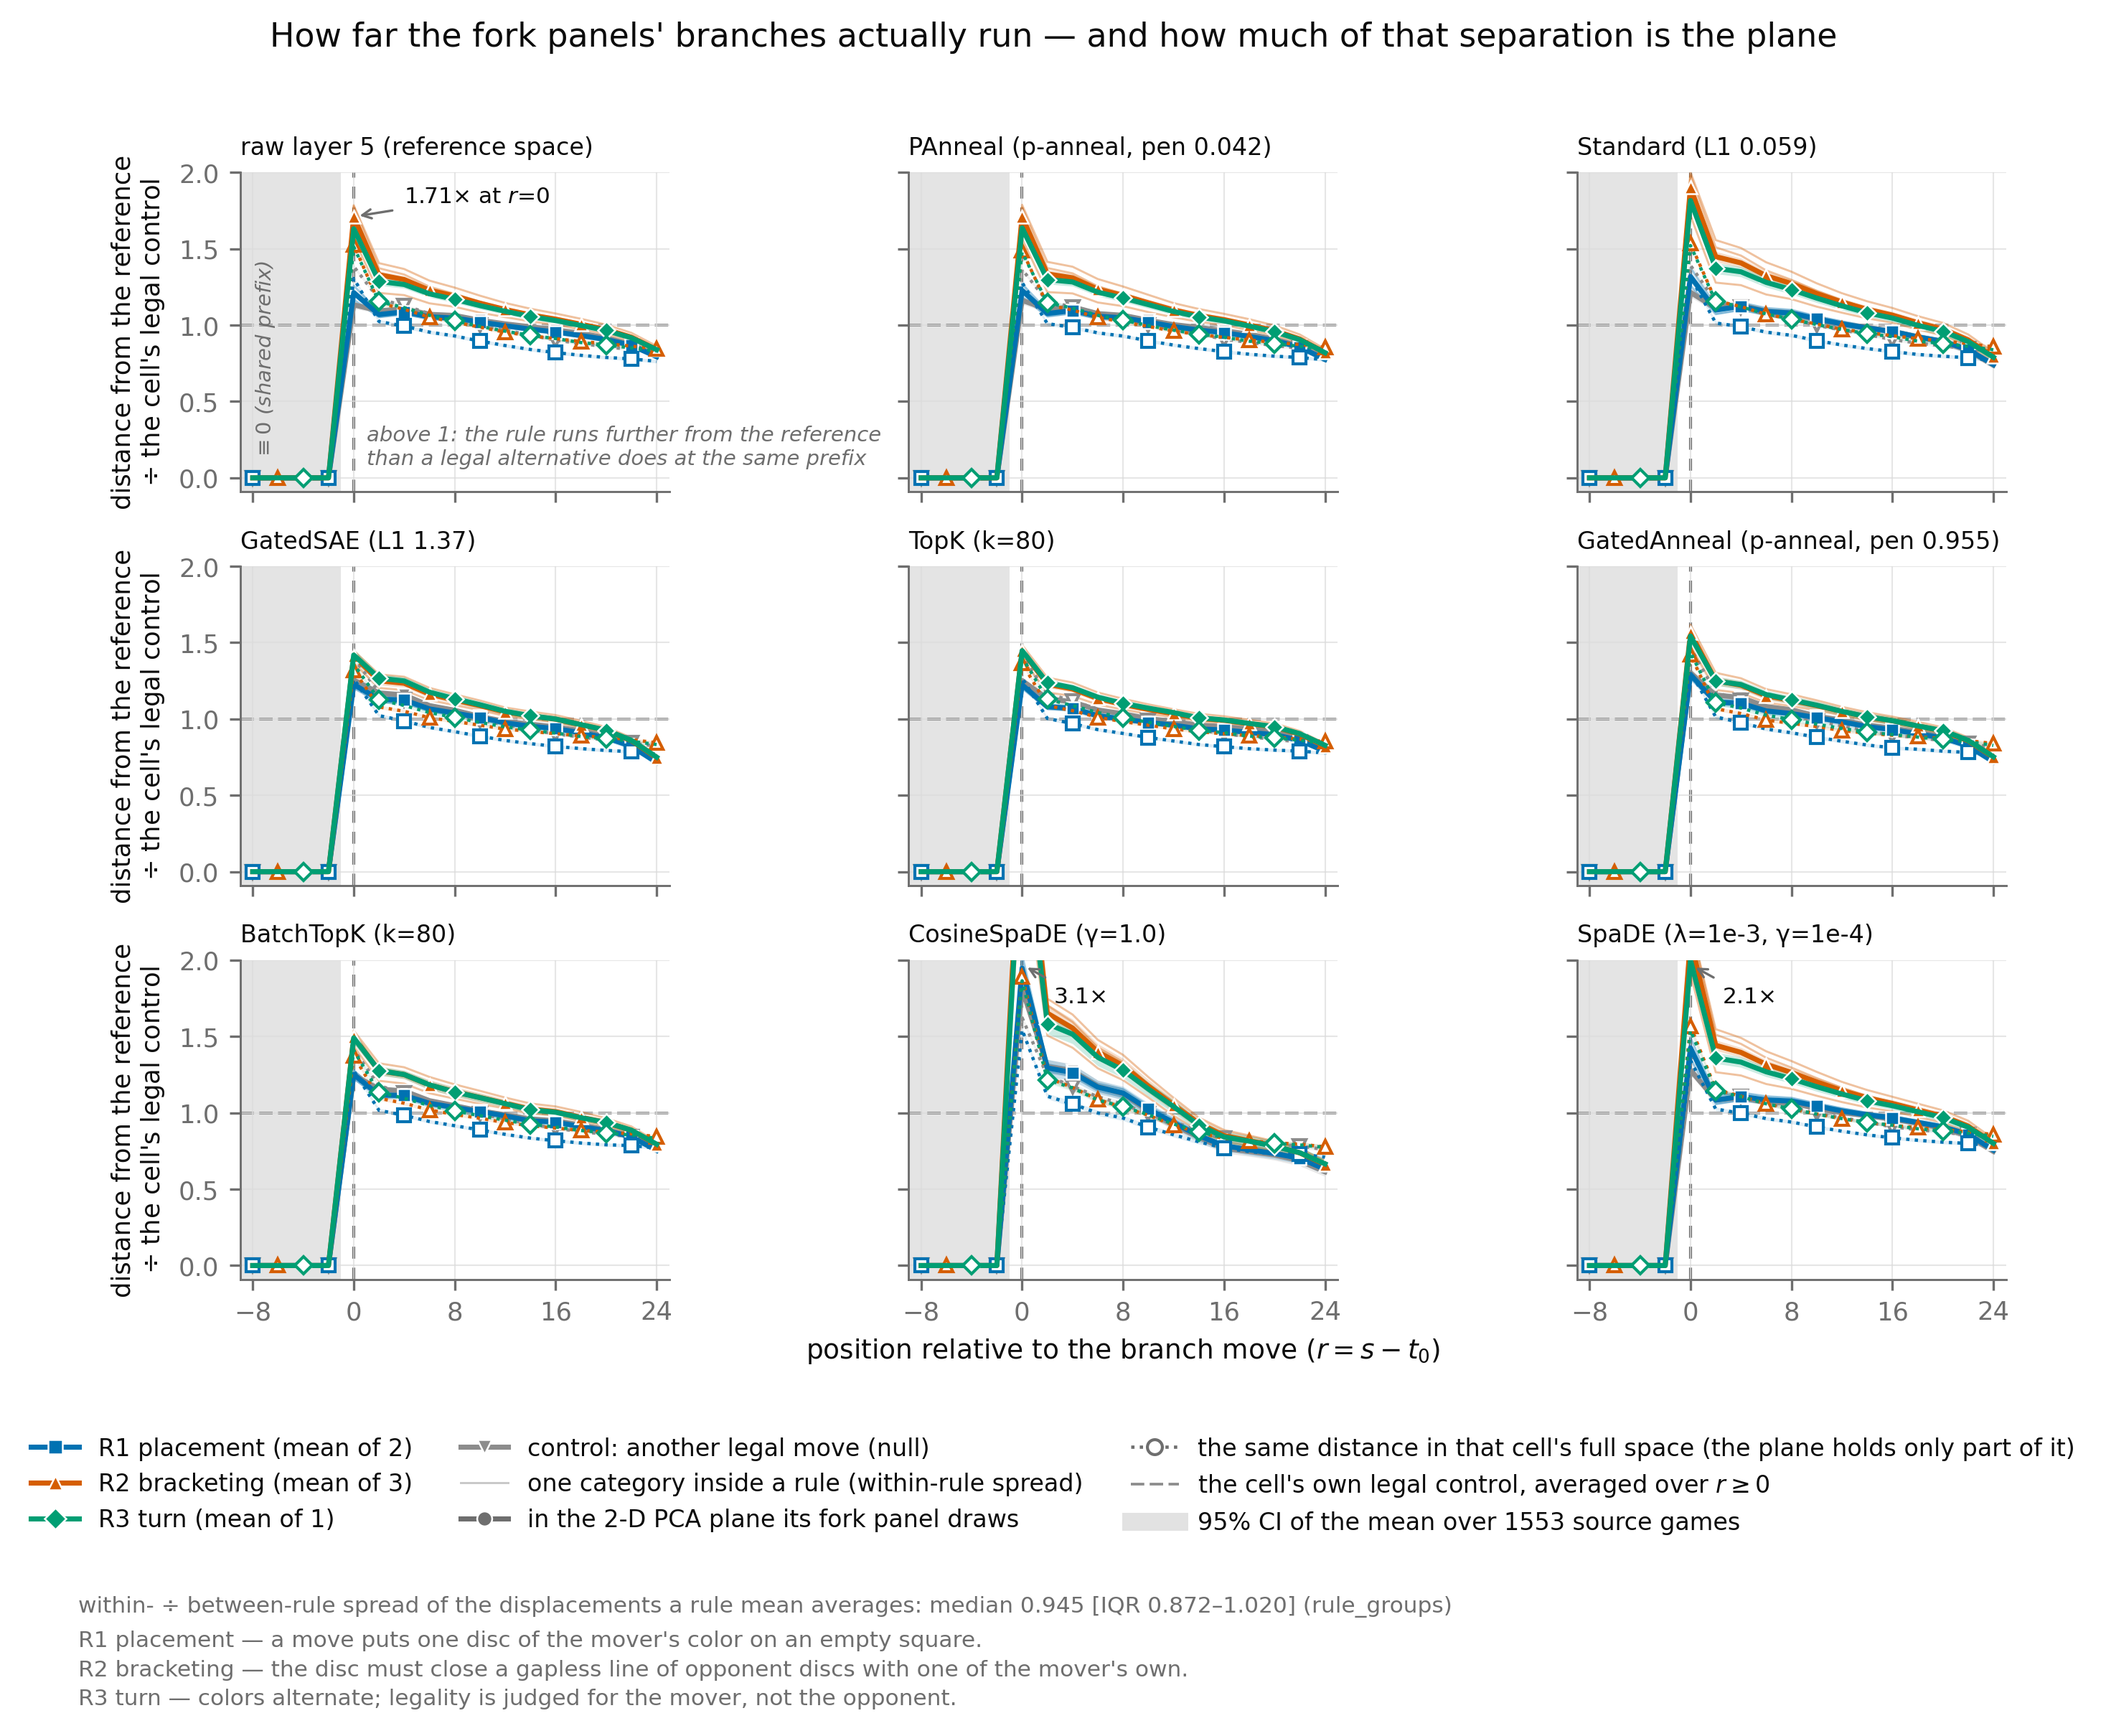
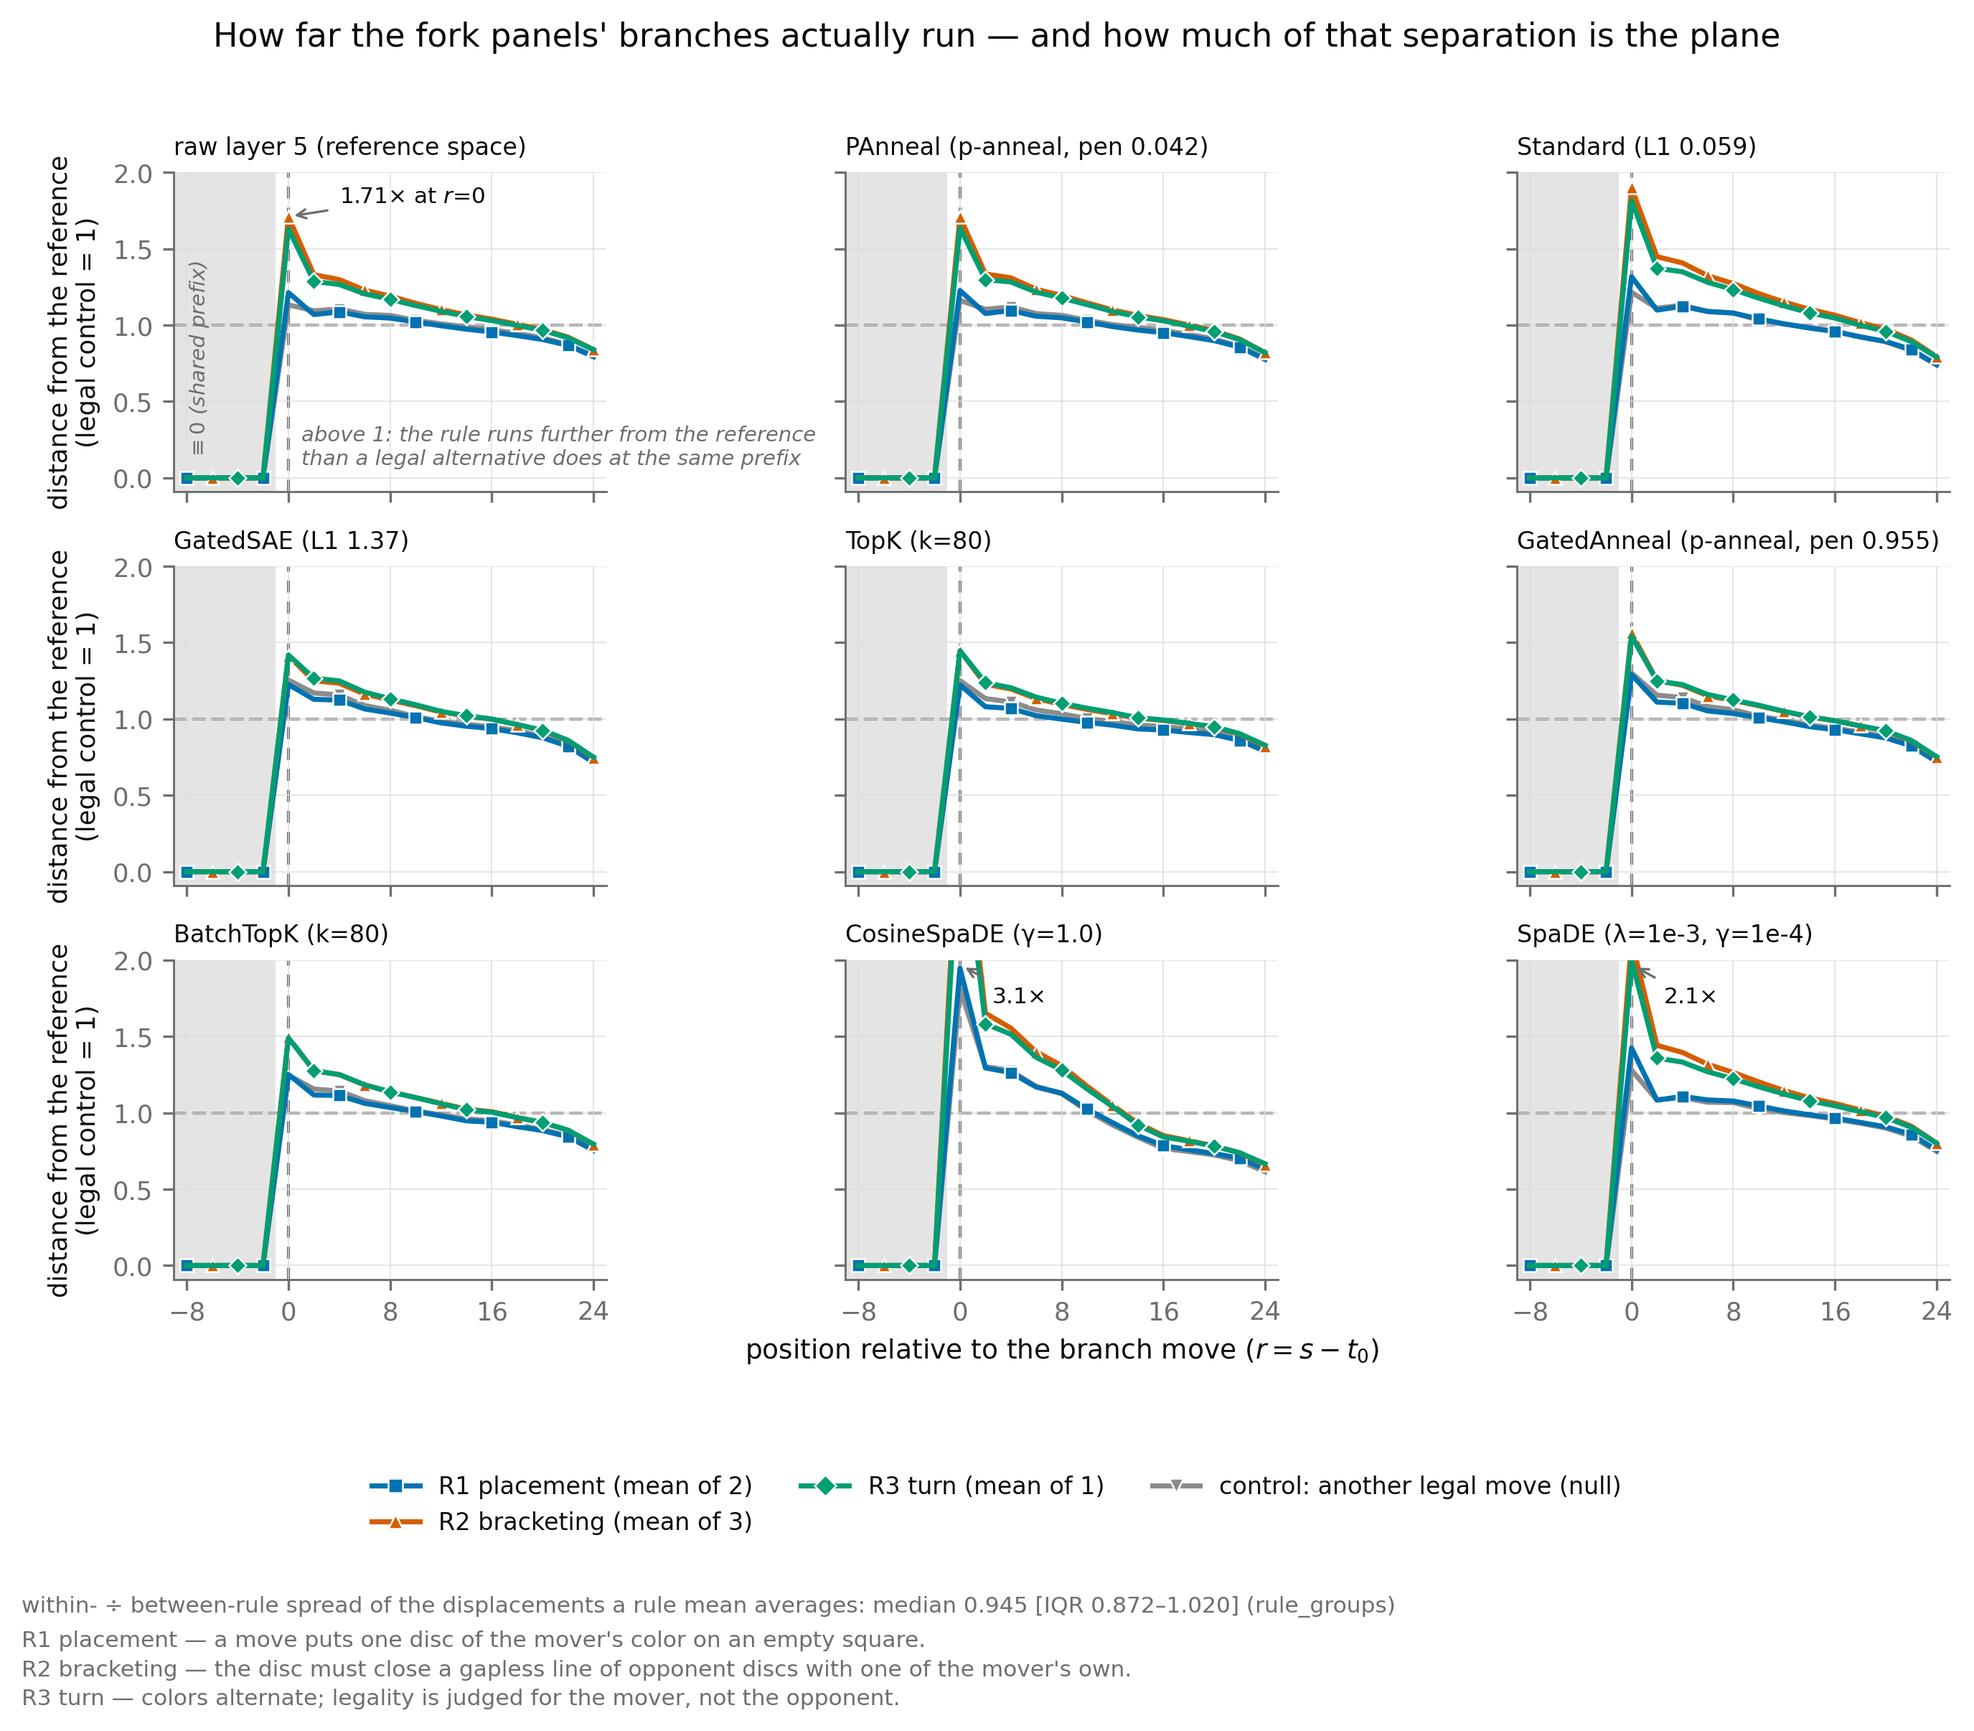
Cut the divergence panels to the one curve they are about
The legend explained four things at once — which space the distance was measured
in, what the faint members were, the divisor, the band — for a figure whose
question is one curve. The full-space series went with its key rather than being
left as an undecodable dotted line; it stays in the CSV, where the plane-vs-space
gap the README quotes is still recoverable.

diff --git a/analysis/violation_divergence/divergence_by_space/make_figures.py b/analysis/violation_divergence/divergence_by_space/make_figures.py
@@ -41,7 +41,7 @@ import pandas as pd
 
 from spade.common.paths import results_dir
 from spade.common.study import variant_dir
-from spade.figures.branch_style import MEMBER, MEMBER_LABEL, branch_style
+from spade.figures.branch_style import branch_style
 from spade.figures.paper_style import (
     GRID, INK, MUTED, NULL, apply_style, rule_key, save_figure)
 from spade.othello.taxonomy import CATEGORIES, LEGAL, RULE_MEMBERS
@@ -54,12 +54,11 @@ CONTROL = "control_legal"
 # Which space the distance was measured in rides on line style and marker fill,
 # so hue stays free for the rule and a panel carries four classes, not eight
 # series. The plane is the figure's quantity and takes the solid line.
-PLANE = {"ls": "-", "lw": 1.7, "ms": 4.2, "fill": True, "alpha": 0.20,
-         "label": "in the 2-D PCA plane its fork panel draws"}
-FULL = {"ls": (0, (1, 1.6)), "lw": 1.1, "ms": 4.2, "fill": False, "alpha": 0.12,
-        "label": "the same distance in that cell's full space "
-                 "(the plane holds only part of it)"}
-MEASURES = {"plane": PLANE, "full": FULL}
+PLANE = {"ls": "-", "lw": 1.7, "ms": 4.2, "fill": True}
+MEASURES = {"plane": PLANE}
+# Drawn: the plane only. Tabulated: both, because the gap between them is how
+# much of a branch's run the fork panel actually shows, and the README quotes it.
+TABLE_MEASURES = ("plane", "full")
 # Measured on the full displacement field of this same population by
 # `spade.violation_divergence.rule_groups`; a mean over a group owes the reader
 # the spread it hides (FIGURE_GUIDELINES 1.7).
@@ -109,7 +108,7 @@ def mean_ci(x: np.ndarray) -> tuple[np.ndarray, np.ndarray]:
 def table(z, variant: str) -> pd.DataFrame:
     """Every drawn point, so the README can quote a number without reading a curve."""
     rows = []
-    for key in MEASURES:
+    for key in TABLE_MEASURES:
         r = ratios(z, key)
         for si, space in enumerate(z["space"]):
             for ci, name in enumerate(series_rows(z)):
@@ -130,10 +129,8 @@ def style_of(name: str) -> dict:
     return st | {"label": f"{st['label']} (mean of {len(RULE_MEMBERS[name])})"}
 
 
-def draw_series(ax, w, mu, half, name: str, how: dict, offset: int) -> None:
+def draw_series(ax, w, mu, name: str, how: dict, offset: int) -> None:
     st = style_of(name)
-    ax.fill_between(w, mu - half, mu + half, color=st["color"], alpha=how["alpha"],
-                    lw=0, zorder=st["zorder"] - 1)
     ax.plot(w, mu, color=st["color"], marker=st["marker"], ls=how["ls"], lw=how["lw"],
             ms=how["ms"], markevery=(offset % 3, 3), zorder=st["zorder"],
             markerfacecolor=st["color"] if how["fill"] else "white",
@@ -162,19 +159,6 @@ def legend_marks(n_games: int) -> tuple[list, list]:
         handles.append(plt.Line2D([], [], color=st["color"], marker=st["marker"], ms=5,
                                   lw=1.7, markeredgecolor="white", markeredgewidth=0.6))
         labels.append(st["label"])
-    handles.append(plt.Line2D([], [], color=MUTED, **MEMBER))
-    labels.append(MEMBER_LABEL)
-    for how in MEASURES.values():
-        handles.append(plt.Line2D([], [], color=MUTED, marker="o", ms=5, ls=how["ls"],
-                                  lw=how["lw"],
-                                  markerfacecolor=MUTED if how["fill"] else "white",
-                                  markeredgecolor="white" if how["fill"] else MUTED,
-                                  markeredgewidth=0.6 if how["fill"] else 1.0))
-        labels.append(how["label"])
-    handles.append(plt.Line2D([], [], color=NULL["color"], lw=0.9, ls=(0, (5, 2))))
-    labels.append("the cell's own legal control, averaged over $r \\geq 0$")
-    handles.append(plt.Line2D([], [], color=MUTED, lw=6, alpha=0.20))
-    labels.append(f"95% CI of the mean over {n_games} source games")
     return handles, labels
 
 
@@ -202,11 +186,8 @@ def figure(z, variant: str, camera_ready: bool) -> Path:
         for ci, (name, rows) in enumerate(series_rows(z).items()):
             # The members of a rule, faint behind their mean, in the plane: the
             # reader sees the spread the mean is taken over (1.7).
-            if name != CONTROL:
-                ax.plot(w, members[si, :, rows].mean(1).T, color=style_of(name)["color"],
-                        **MEMBER)
             for key, how in MEASURES.items():
-                draw_series(ax, w, *mean_ci(curves[key][si, :, ci]), name, how, ci)
+                draw_series(ax, w, mean_ci(curves[key][si, :, ci])[0], name, how, ci)
         ax.set_title(space, loc="left", fontsize=8)
         ax.set_ylim(-0.09, YMAX)
         off = curves["plane"][si].mean(0).max(0)
@@ -216,7 +197,7 @@ def figure(z, variant: str, camera_ready: bool) -> Path:
                         xytext=(w[ri] + 2.5, YMAX * 0.86), fontsize=7.5, color=INK,
                         arrowprops=dict(arrowstyle="->", color=MUTED, lw=0.8))
         if si % NCOL == 0:
-            ax.set_ylabel("distance from the reference\n$\\div$ the cell's legal control",
+            ax.set_ylabel("distance from the reference\n(legal control = 1)",
                           fontsize=8.5)
     axes.flat[-NCOL + 1].set_xlabel("position relative to the branch move "
                                     "($r = s - t_0$)", fontsize=9)
